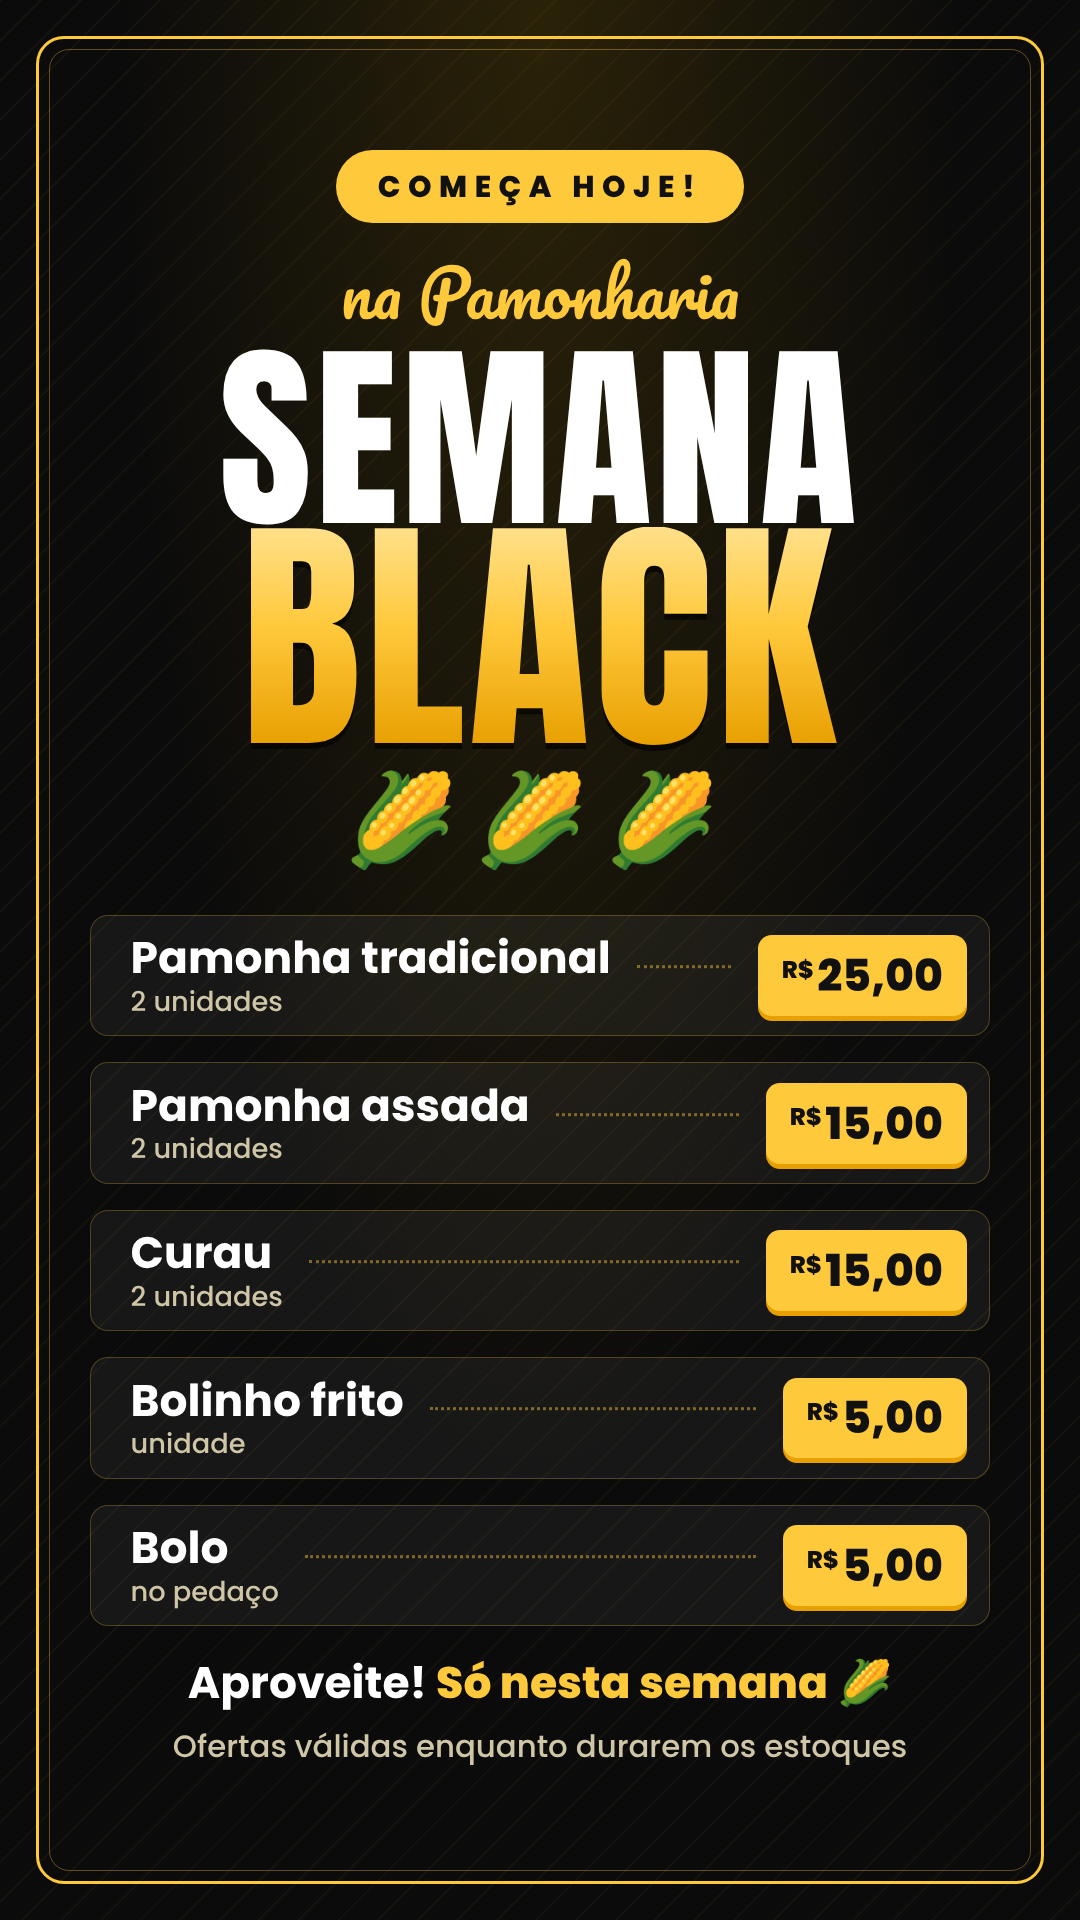
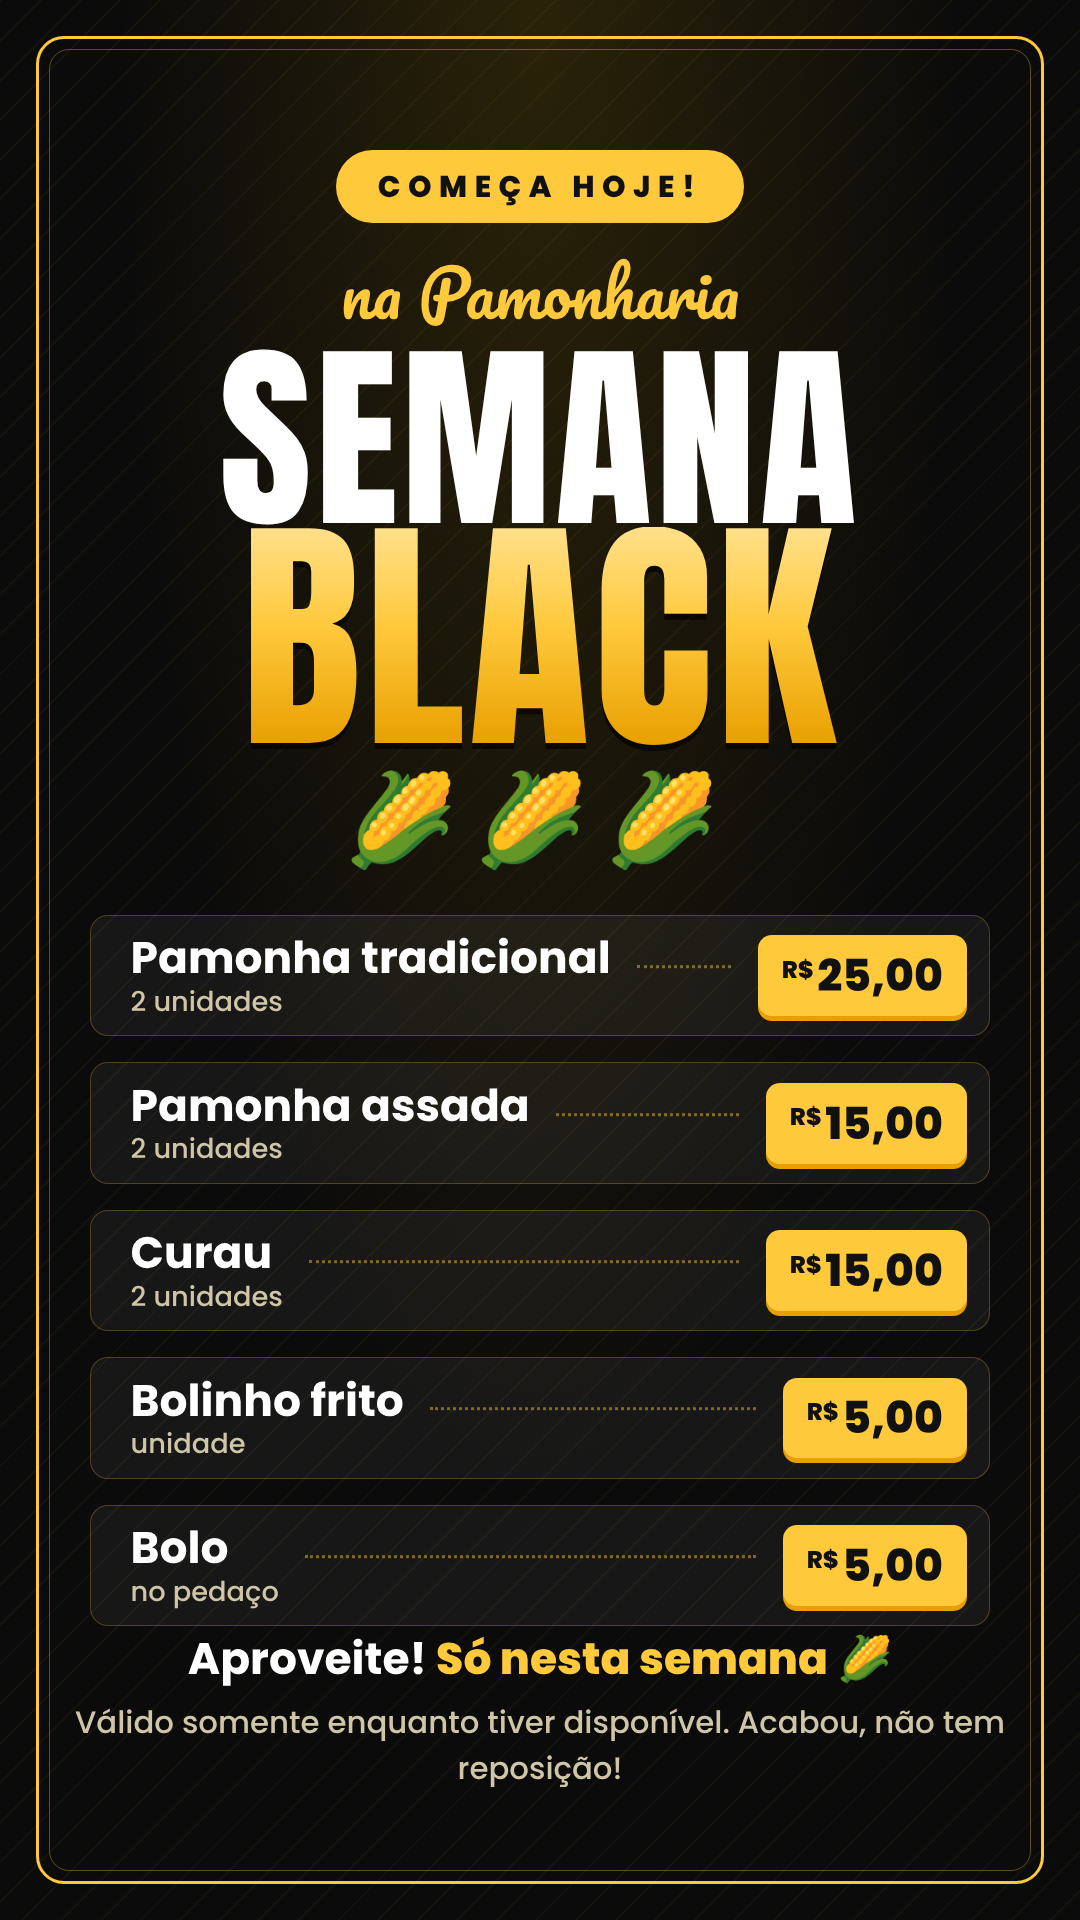
Ajusta aviso: válido enquanto tiver disponível, sem reposição
Claude-Session: https://claude.ai/code/session_01P1bChMXg4og4mqvcNrjTJe

Changed region(s): [[0.0611, 0.8438, 0.9167, 0.9375]]

diff --git a/post-black/post.html b/post-black/post.html
@@ -57,7 +57,7 @@ h1 .k{display:block;font-size:1.25em;background:linear-gradient(180deg,#FFE08A,v
     <div class="item"><div class="n">Bolinho frito<small>unidade</small></div><div class="dots"></div><div class="price"><span>R$</span>5,00</div></div>
     <div class="item"><div class="n">Bolo<small>no pedaço</small></div><div class="dots"></div><div class="price"><span>R$</span>5,00</div></div>
   </div>
-  <div class="foot">Aproveite! <b>Só nesta semana</b> 🌽<span class="sub">Ofertas válidas enquanto durarem os estoques</span></div>
+  <div class="foot">Aproveite! <b>Só nesta semana</b> 🌽<span class="sub">Válido somente enquanto tiver disponível. Acabou, não tem reposição!</span></div>
 </div>
 <script>document.getElementById('p').classList.add(new URLSearchParams(location.search).get('f')||'story')</script>
 </body></html>
